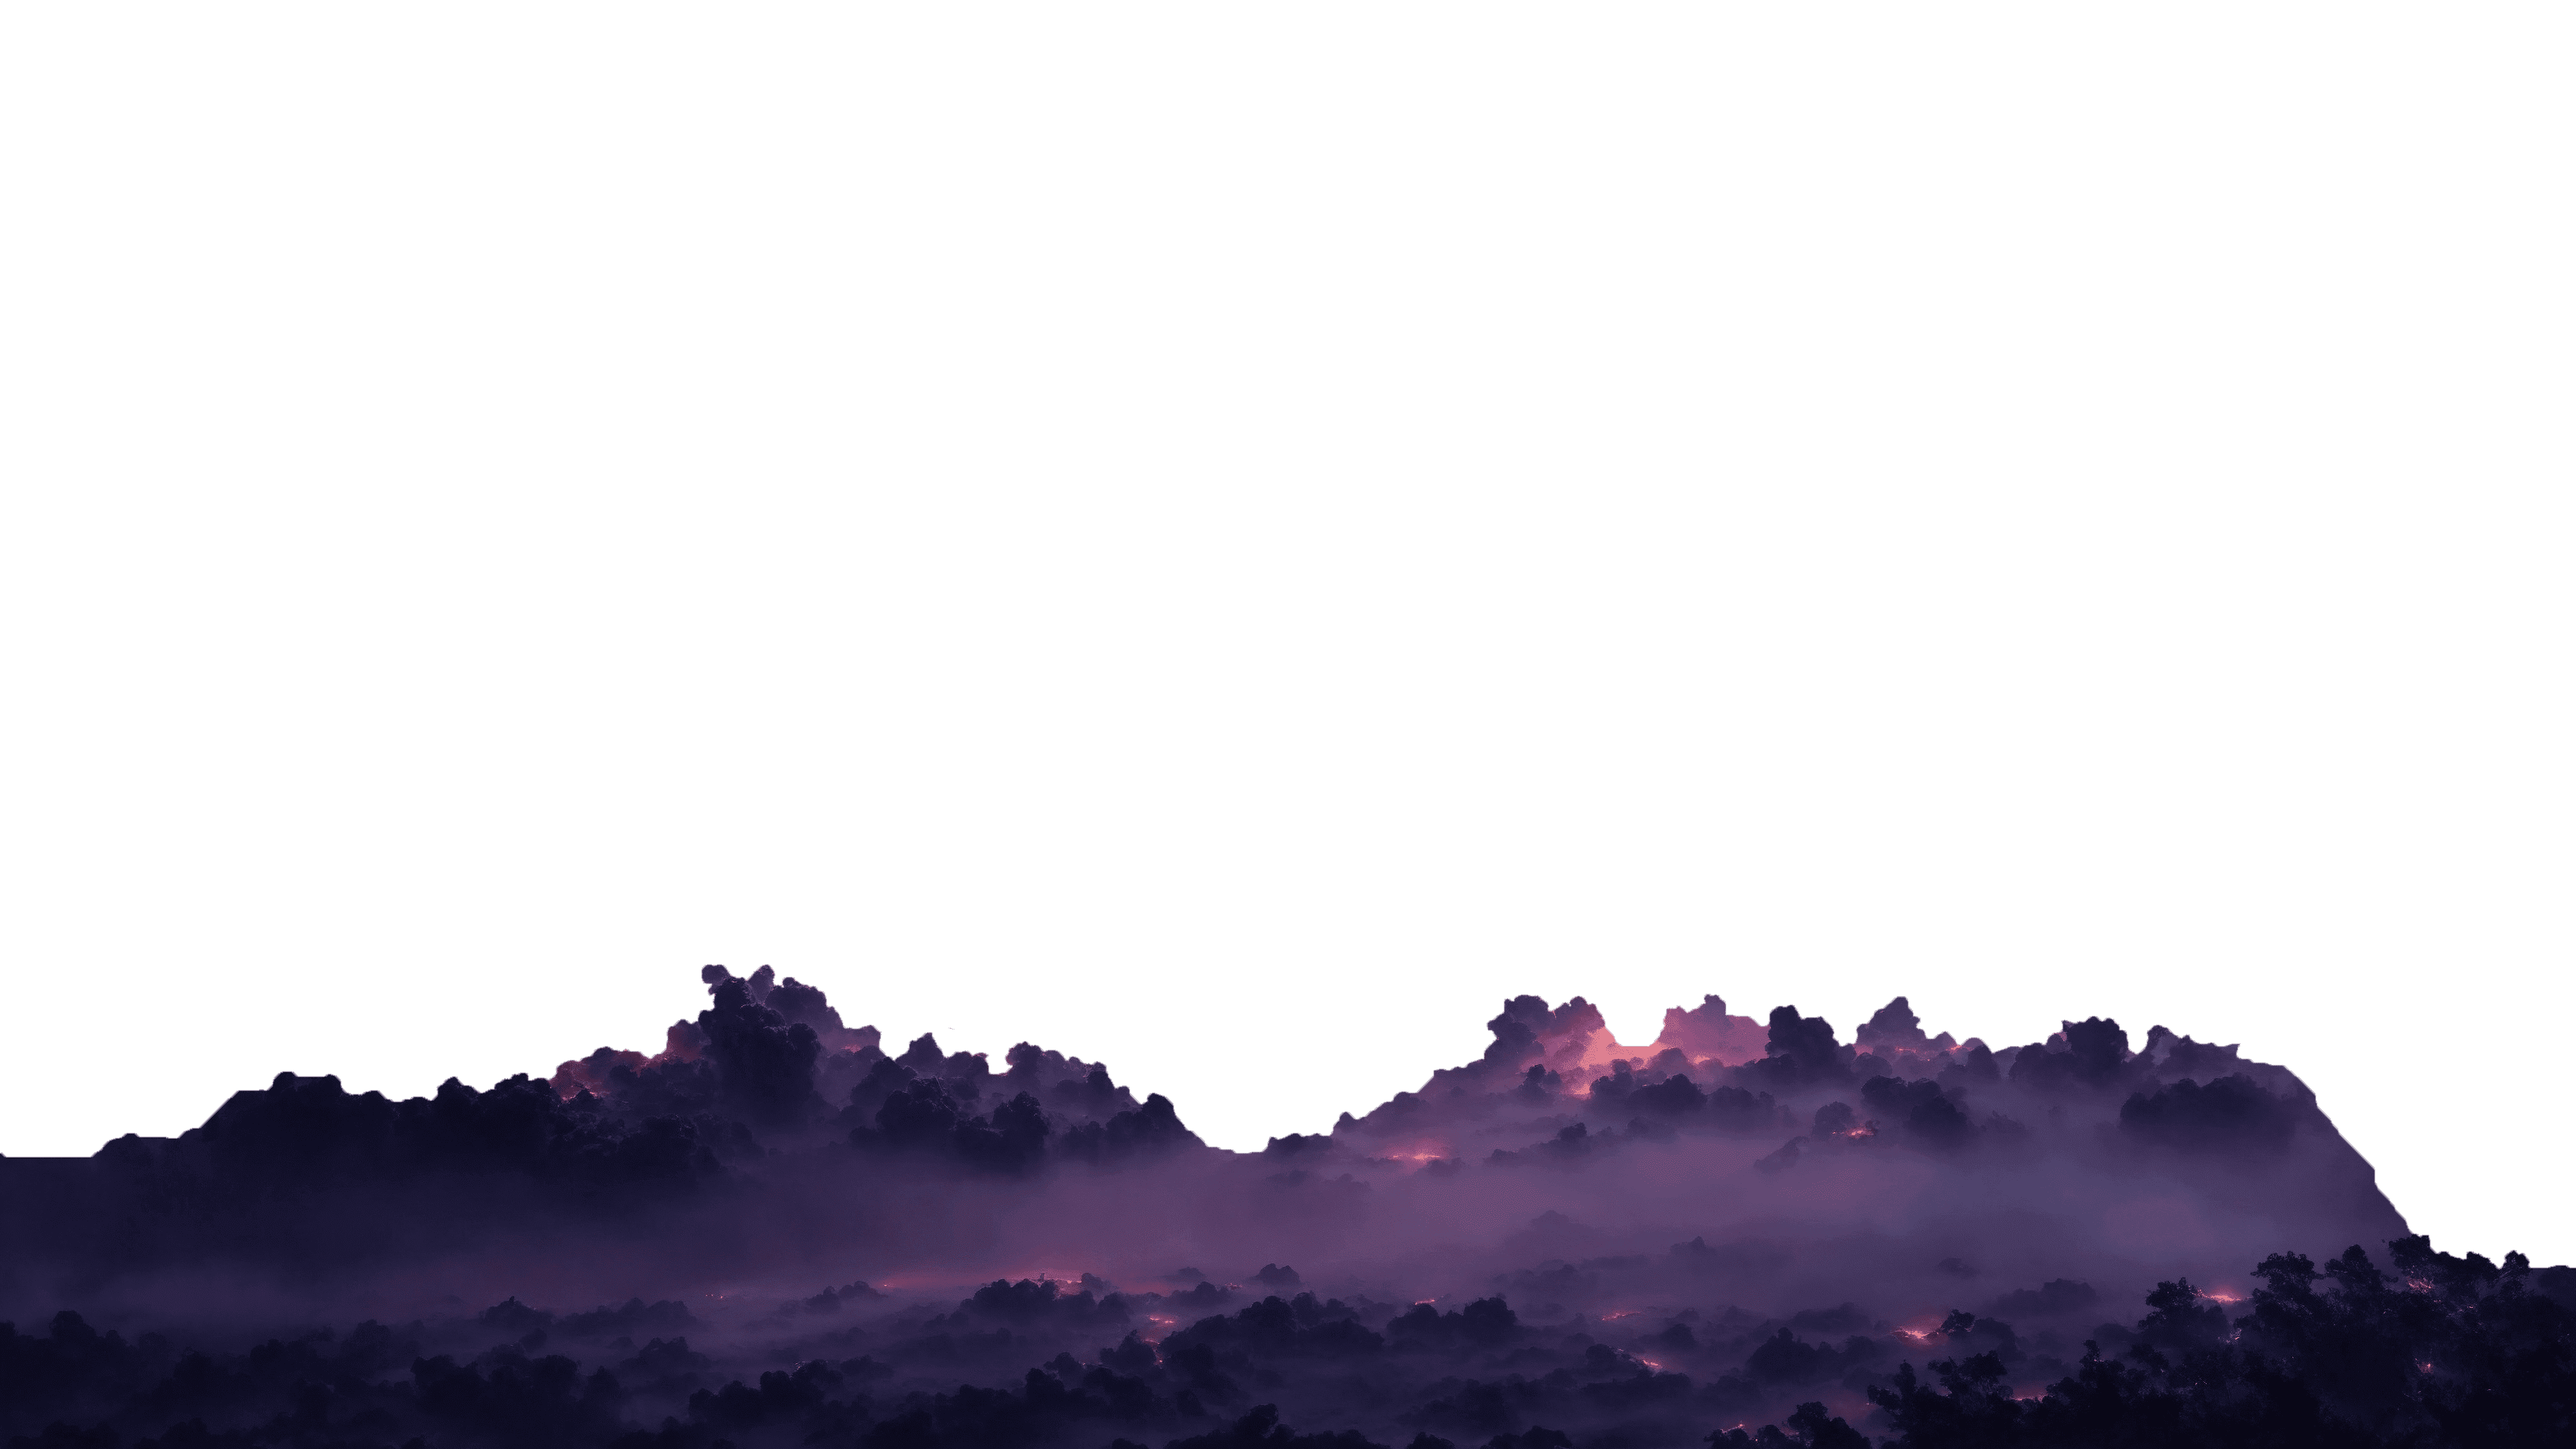
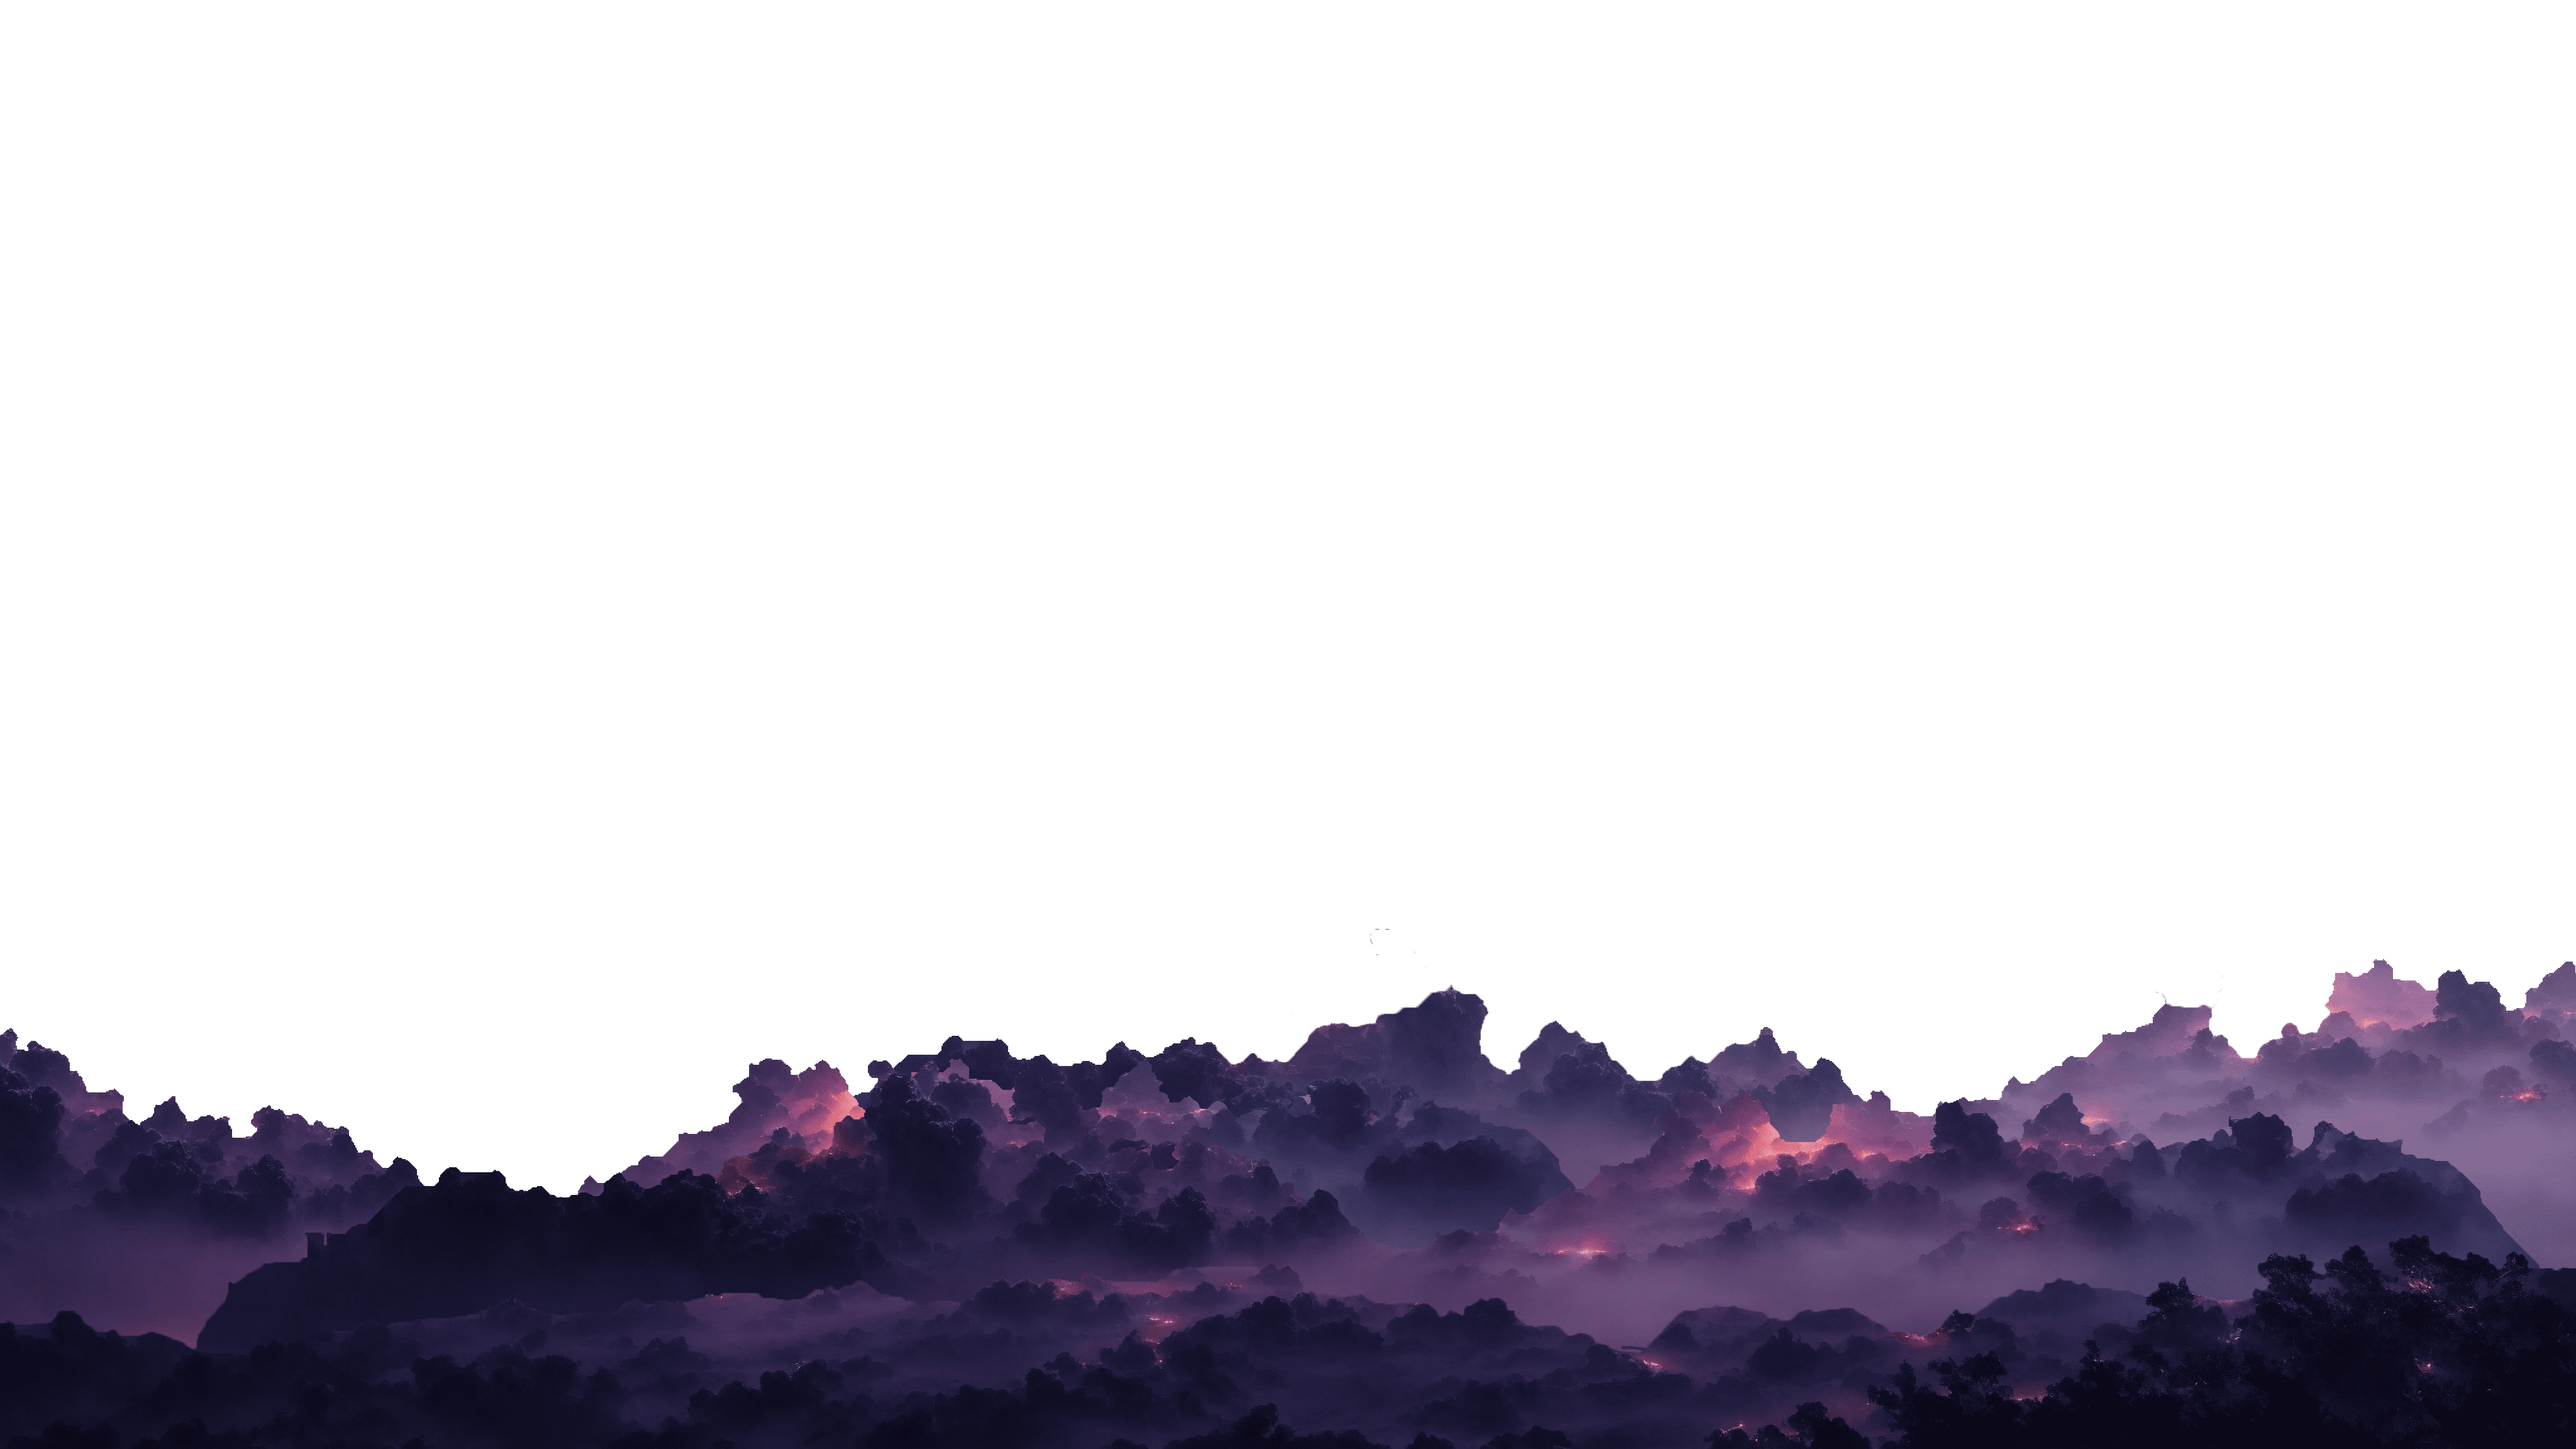
home 滾軸動畫(未完成)

Changed region(s): [[0.0, 0.6562, 1.0, 0.9375]]

diff --git a/src/components/home/Parallax.vue b/src/components/home/Parallax.vue
@@ -16,15 +16,15 @@ onMounted(() => {
         scrollTrigger: {
             trigger: parallax.value,
             start: "top top",
-            end: "70% top",
+            end: "80% top",
             toggleClass: "active",
             scrub: true
         }
     });
 
     tl
-        .to(text_1.value, { marginTop: "20vh" }, "0sec")
-        .to(text_2.value, { marginTop: "25vh" }, "0sec")
+        .to(text_1.value, { marginTop: "30vh" }, "0sec")
+        .to(text_2.value, { marginTop: "35vh" }, "0sec")
         .to(planet_1.value, { marginTop: "-8vh" }, "0sec")
         .to(land_1.value, { marginTop: "3vh" }, "0sec");
 });
